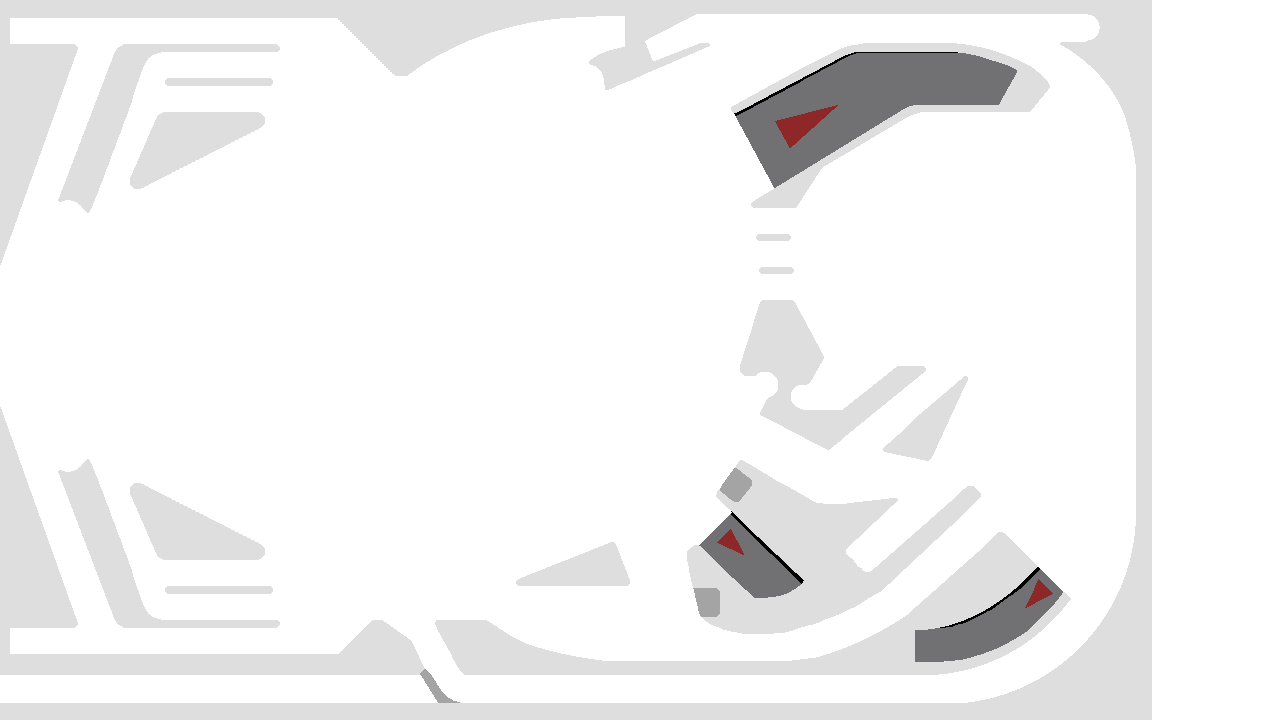
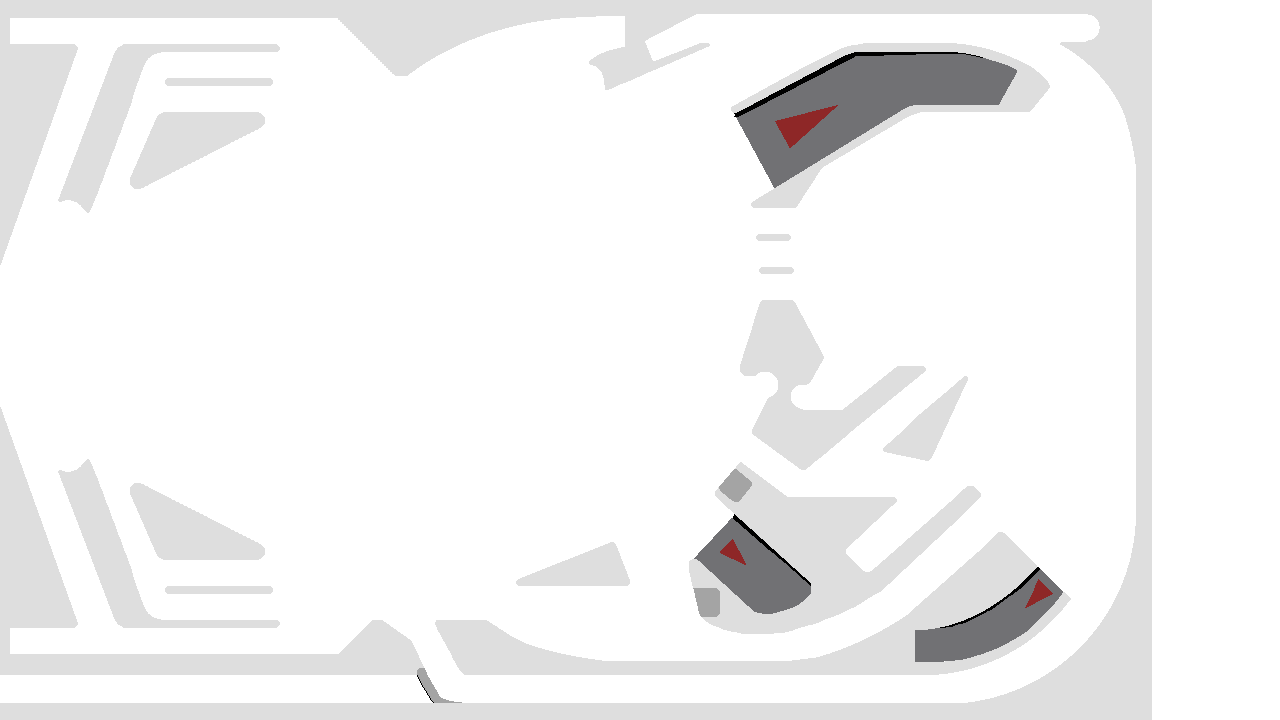
update graphics, add other optwall for left rail

diff --git a/games/pinball/source/optwall.h b/games/pinball/source/optwall.h
@@ -30,8 +30,9 @@ class OptWall {
         vector<float> m_rightKickerLock = {70.2, 616.2, 69.0, 617.4, 69.0, 618.5, 69.0, 619.6, 77.0, 641.5, 85.0, 663.5, 86.4, 664.9, 87.8, 666.3, 89.4, 665.7, 91.0, 665.0, 91.6, 663.5, 92.2, 662.0, 84.5, 640.8, 76.8, 619.5, 75.4, 617.2, 74.0, 615.0, 72.7, 615.0, 71.4, 615.0, 70.2, 616.2};
         vector<float> m_rightLock = {930.3, 492.5, 896.1, 497.7, 894.6, 498.3, 893.0, 498.9, 893.0, 501.0, 893.0, 503.1, 894.4, 503.6, 895.7, 504.1, 932.6, 498.6, 969.4, 493.0, 970.3, 492.1, 971.2, 491.2, 970.8, 489.4, 970.5, 487.5, 967.5, 487.3, 964.5, 487.2, 930.3, 492.5};
         vector<float> m_topLeftLock = {937.0, 12.4, 937.0, 14.8, 945.8, 15.4, 954.5, 16.0, 967.8, 17.0, 981.1, 18.1, 989.8, 19.5, 998.5, 21.0, 1011.0, 24.1, 1023.5, 27.2, 1033.5, 31.0, 1043.5, 34.7, 1051.5, 38.7, 1059.5, 42.7, 1064.4, 42.1, 1069.3, 41.5, 1059.9, 36.4, 1050.5, 31.2, 1038.6, 26.5, 1026.7, 21.9, 1012.6, 18.4, 998.5, 14.9, 995.4, 14.0, 992.4, 13.0, 967.5, 11.5, 942.5, 10.0, 939.8, 10.0, 937.0, 10.0, 937.0, 12.4};
+        vector<float> m_leftRailWall2 = {1010.5, 283.9, 982.7, 312.9, 981.3, 313.5, 979.9, 314.0, 980.2, 316.7, 980.5, 319.5, 983.5, 319.8, 986.6, 320.1, 1015.0, 290.5, 1043.5, 260.9, 1043.5, 258.2, 1043.5, 255.5, 1041.0, 255.2, 1038.4, 254.9, 1010.5, 283.9};
         vector<vector<float>> m_WallShapes = {
-            m_leftRailWall, m_underLayerLock1, m_underLayerLock2, m_leftKickerLock, m_rightKickerLock, m_rightLock, m_topLeftLock
+            m_leftRailWall, m_underLayerLock1, m_underLayerLock2, m_leftKickerLock, m_rightKickerLock, m_rightLock, m_topLeftLock, m_leftRailWall2
         };
         vector<float> m_positions = {
             977, 293,
@@ -40,7 +41,8 @@ class OptWall {
             73, 18,
             72, 624,
             894, 487,
-            955, 14
+            955, 14,
+            980, 264
         };
 };
 

diff --git a/games/pinball/source/table.cpp b/games/pinball/source/table.cpp
@@ -132,13 +132,17 @@ Table::Table(C2DRenderer* renderer, b2World& world) :
     topLeftLock->enable();
     m_optWalls.push_back(topLeftLock);
 
+    OptWall* leftRailWall2 = new OptWall(renderer, world, 7, 3);
+    leftRailWall2->enable();
+    m_optWalls.push_back(leftRailWall2);
+
     Trigger* leftTrigger = new Trigger(renderer, world, 0, 2, 0, underLayerLock1, leftKickerLock, rightKickerLock);
     m_triggers.push_back(leftTrigger);
 
     Trigger* topRightTrigger = new Trigger(renderer, world, 1, 2, 0, rightLock, leftKickerLock, rightKickerLock);
     m_triggers.push_back(topRightTrigger);
 
-    Trigger* topLeftTrigger = new Trigger(renderer, world, 2, 2, 2, leftRailWall, topLeftLock);
+    Trigger* topLeftTrigger = new Trigger(renderer, world, 2, 2, 2, leftRailWall, topLeftLock, leftRailWall2);
     m_triggers.push_back(topLeftTrigger);
 
     // Circle bumpers at the top left
@@ -248,6 +252,7 @@ void Table::update(unsigned int keys) {
             m_optWalls.at(4)->disable();
             m_optWalls.at(5)->enable(); // Close the right ball lock.
             m_optWalls.at(6)->enable(); // Close the top left ball lock.
+            m_optWalls.at(7)->enable(); // Enable the left rail switch 2
         }
     }
     for (size_t i = 0; i < m_pinballs.size(); i++) {
@@ -467,6 +472,7 @@ void Table::newGame() {
     m_optWalls.at(1)->enable(); // Close the under layer ramp.
     m_optWalls.at(5)->enable(); // Close the right ball lock.
     m_optWalls.at(6)->enable(); // Close the top left ball lock.
+    m_optWalls.at(7)->enable(); // Enable the left rail switch 2
     for (size_t b = 0; b < m_ballLocks.size(); b++) {
         m_ballLocks.at(b)->resetLocation();
     }

diff --git a/games/pinball/source/util.h b/games/pinball/source/util.h
@@ -5,7 +5,7 @@
 #include <vector>
 #include "cross2d/c2d.h"
 
-#define DEBUG 1
+#define DEBUG 0
 
 using namespace c2d;
 
